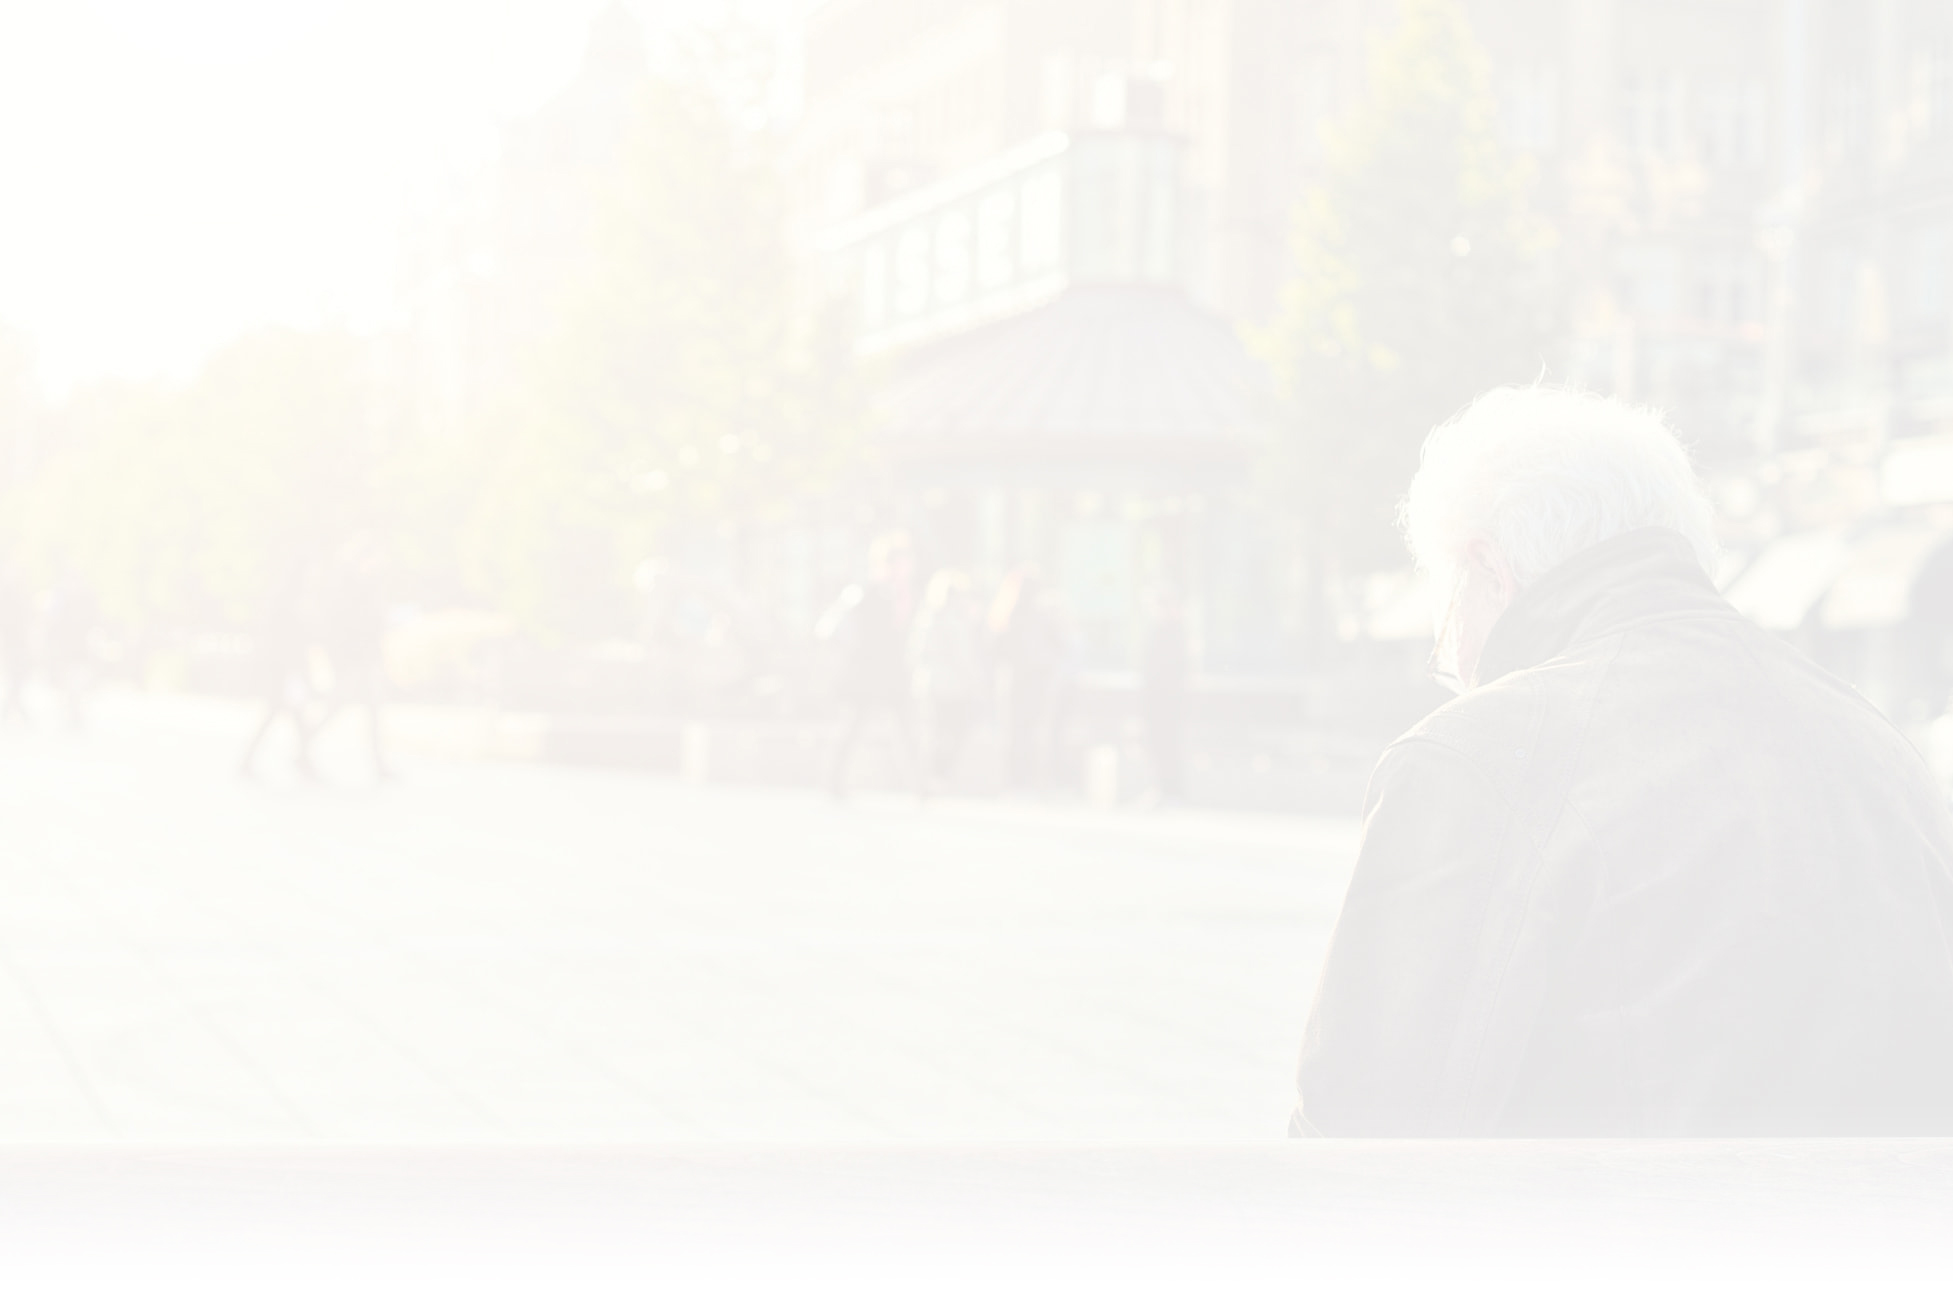
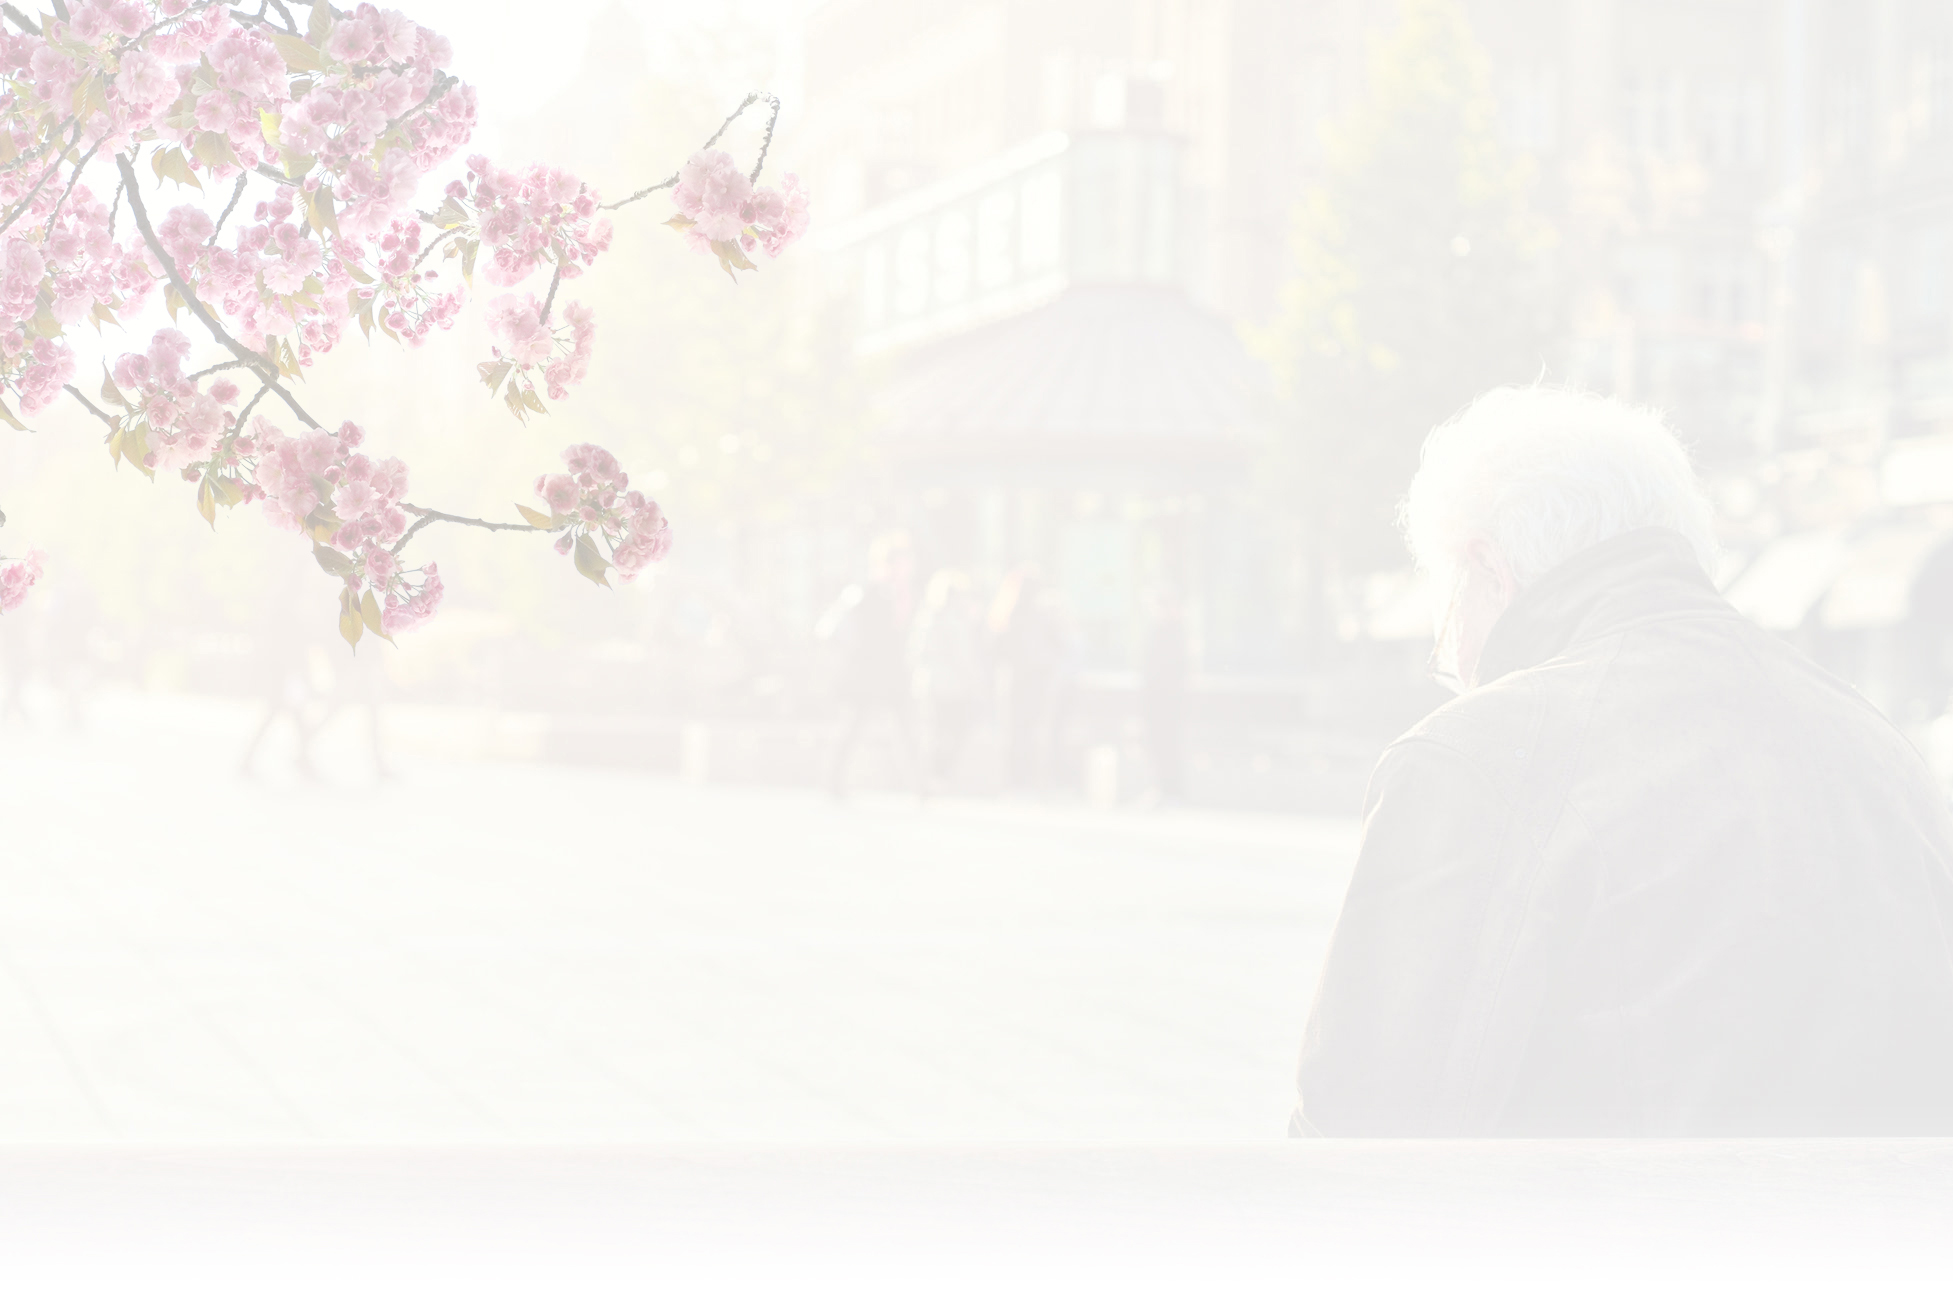
Add files via upload

diff --git a/main.css b/main.css
@@ -93,6 +93,7 @@ p {
     position:relative;
     text-align: center;
     display: block;
+    max-width: 100%;
 }
 
 h3 {
@@ -242,8 +243,91 @@ footer {
         transform: translateY(100%);
     }
 
+    #form_container {
+        position:fixed;
+        width:100%;
+        top:0;
+        transition:transform 0.3s cubic-bezier(0.4, 0, 0.2, 1);
+        background: white;
+        transform:translateY(-100%);
+    }
 
+    form {
+        width: 90%;
+        margin: 0 auto;
+        padding: 4vw 0 2vw 0;
+    }
 
+    form * {
+        display:block;
+    }
+
+    form span {
+        font-size: 3vw;
+        text-align: center;
+        color: #AAA;
+        text-transform: uppercase;
+    }
+
+    input {
+        height: 9vw;
+        max-height: 6vh;
+        min-height: 30px;
+    }
+
+    textarea {
+        max-width: 100%;
+        height:27vw;
+    }
+
+        input, textarea {
+            border: none;
+            background: #F8F8F8;
+            width: 100%;
+            margin: 1vw 0 3vw 0;
+            box-sizing: border-box;
+            padding: 0 3vw;
+            font-size: 5vw;
+            font-weight: 300;
+            color: #004646;
+        }
+
+            input:focus, textarea:focus {
+                outline:none;
+            }
+
+                input::placeholder, textarea::placeholder {
+                    color:#ddd;
+                }
+
+    label {
+        font-size: 0.62rem;
+    }
+
+    #send_bt {
+        font-size: 6vw;
+        background: #00AACA;
+        color: white;
+        border-radius: 10vw;
+        height: 12vw;
+        font-weight: 300;
+    }
+
+        #send_bt, input, textarea {
+            font-family: 'Roboto', sans-serif;
+        }
+
+    #outarea {
+        position: fixed;
+        top:0;
+        right:0;
+        left:0;
+        bottom:0;
+        background: rgba(0, 0, 0, 0.2);
+        opacity:0;
+        visibility: hidden;
+        transition:opacity 0.3s linear, visibility 0.3s linear;
+    }
 
 
 
@@ -375,6 +459,46 @@ footer {
         opacity: 1;
         transform: translateY(0);
     }
+
+    input, textarea {
+        margin: 1vh 0 2vh 0;
+        box-sizing: border-box;
+        padding: 0 2vh;
+        font-size: 18px;
+    }
+
+    textarea {
+        min-width: 100%;
+        max-height: 27vw;
+        height: 20vh;
+        padding-top: 2vh;
+    }
+
+    label {
+        font-size: 18px;
+    }
+
+    form {
+        padding: 5vh 0 2vh 0;
+    }
+
+    #send_bt {
+        font-size: 18px;
+        cursor: pointer;
+        text-align: right;
+        padding-right: 9vh;
+        border-radius: 0;
+        font-weight: 400;
+    }
+
+        #send_bt:hover {
+            background:#0087A7;
+        }
+
+    form span {
+        font-size: 2vh;
+        letter-spacing: 1px;
+    }
 }
 
 
@@ -477,6 +601,81 @@ footer {
         bottom: 0;
         left: 0;
         max-height: 62vh;
+        transform:translateX(-2vh);
     }
 
+    @keyframes flower_move {
+        from {
+            transform:translateX(-2vh);
+        } to {
+            transform:translateX(0);
+        }
+    }
+
+    #form_container {
+        width: 38%;
+        margin: 0 auto;
+        left: 0;
+        right: 0;
+        box-shadow: 0 0 30vh 10vh #CEF;
+        border-radius: 0 0 2vh 2vh;
+    }
+
+    textarea {
+        max-height: 50vh;
+        height: 30vh;
+    }
+
+    #send_bt, input, textarea, label {
+        font-size: 3vh;
+    }
+}
+
+
+
+
+
+
+
+
+
+
+
+
+
+
+
+
+
+@media screen and (max-height:400px) and (orientation:landscape) {
+    #contact_container {
+        bottom: 1rem;
+        right: 2rem;
+        width: 1.6rem;
+        height: 1.6rem;
+    }
+
+    h1 {
+        font-size: 1.8rem;
+        line-height: 1.5rem;
+    }
+
+    h2 {
+        font-size: 0.7rem;
+    }
+
+    #cta span {
+        font-size: 0.8rem;
+        line-height: 0.9rem;
+    }
+
+    #contact_container a, #contact_container div {
+        height:10vh;
+        margin-bottom:2vh;
+    }
+
+    #profImg {
+        opacity: 1;
+        transform: translateX(0);
+    }
 }

diff --git a/index.html b/index.html
@@ -100,6 +100,7 @@
                     <source type="image/webp" srcset="assets/flower.webp">
                     <img class="flower_img" src="assets/flower.png" alt="">
                 </picture>
+                
             </div> 
 
             <picture class="profile_img" id="profImg">
@@ -109,6 +110,7 @@
         </div>
     </section>
 
+    <aside id="outarea" title="clique para voltar"></aside>
 
     <div id="contact_container" title="Clique para exibir/ocultar formas de contato">
         <a href="https://wa.me/5511951378599" target="_blank" id="whatsapp_bt" title="">
@@ -139,6 +141,21 @@
         <path class="st3" d="m30.4 37.2v36.2c0 3.6 2.9 6.5 6.5 6.5h52.5c1.2 0 2.4 0.3 3.4 1l13.4 8.3c1.7 1 3.9-0.2 3.9-2.1v-49.9c0-3.6-2.9-6.5-6.5-6.5h-66.7c-3.6 0-6.5 2.9-6.5 6.5z"/>
         </svg>
     </div>
+
+    <div id="form_container">
+        <form action="https://formspree.io/ciappina_andre@hotmail.com" method="POST">
+            <label>Nome</label>
+            <input type="text" name="nome" placeholder="ex.: João, Maria">
+            <label>E-mail</label>
+            <input type="email" name="email" placeholder="ex.: seu_email@gmail.com">
+            <label>Mensagem</label>
+            <textarea name="mensagem" placeholder="sinta-se livre para perguntar :)"></textarea>
+            <input type="submit" value="Enviar" id="send_bt" title="clique para enviar">
+            <span>Por segurança, você será redirecionada(o) para uma verificação de reCAPTCHA do Formspree.</span>
+        </form>
+    </div>
+
+
 
 </body>
 </html>

diff --git a/main.js b/main.js
@@ -59,6 +59,23 @@ if (window.matchMedia("(min-width: 180vh)").matches) {
             }
         } else if (window.scrollY > (document.body.scrollHeight - (window.innerHeight * 1.38))) {
             autoShowContacts()
+            document.querySelector('.flower_img').style.animation = "flower_move 4s cubic-bezier(0.4, 0, 0.2, 1) infinite alternate";
         }
     }
 }
+
+const formWindow = document.querySelector('#form_container')
+const outArea = document.querySelector('#outarea')
+
+emailBt.addEventListener('click', function() {
+    toggleContacts()
+    outArea.style.opacity = 1;
+    outArea.style.visibility = "visible";
+    formWindow.style.transform = "translateY(0)";
+})
+
+outArea.addEventListener('click', function() {
+    outArea.style.opacity = 0;
+    outArea.style.visibility = "hidden";
+    formWindow.style.transform = "translateY(-100%)";
+})
